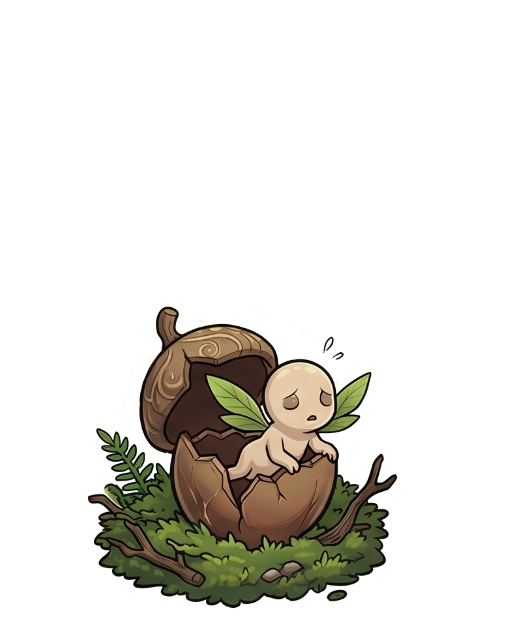
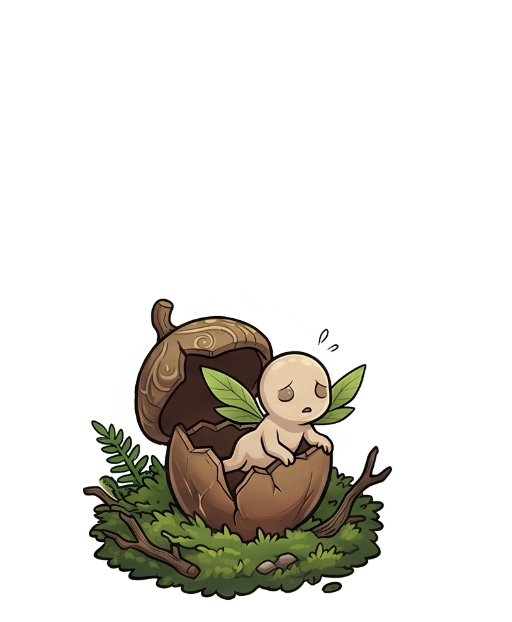
Replaced Potiondas monster selection dropdown with visual thumbnail toggle buttons

Changed region(s): [[0.1562, 0.4582, 0.7812, 0.9775]]

diff --git a/src/components/Editor/ContextualMenu.jsx b/src/components/Editor/ContextualMenu.jsx
@@ -728,14 +728,23 @@ const ContextualMenu = ({ element, onChange, onDelete, onDuplicate, onOpenLibrar
                         <>
                             <div className="menu-group">
                                 <label>Monster</label>
-                                <select 
-                                    value={element.config?.monsterType || 'plant'}
-                                    onChange={(e) => onChange('cartridge', { config: { ...element.config, monsterType: e.target.value } })}
-                                    style={{ fontSize: '0.8rem' }}
-                                >
-                                    <option value="plant">Plant</option>
-                                    <option value="forest">Forest</option>
-                                </select>
+                                <div style={{ display: 'flex', gap: '8px', flexWrap: 'wrap' }}>
+                                    {['plant', 'forest'].map(mType => (
+                                        <button
+                                            key={mType}
+                                            className={`btn-icon ${element.config?.monsterType === mType || (!element.config?.monsterType && mType === 'plant') ? 'active' : ''}`}
+                                            onClick={() => onChange('cartridge', { config: { ...element.config, monsterType: mType } })}
+                                            title={`Select ${mType} monster`}
+                                            style={{ width: '40px', height: '40px', padding: '4px', display: 'flex', alignItems: 'center', justifyContent: 'center', background: 'rgba(255,255,255,0.1)' }}
+                                        >
+                                            <img 
+                                                src={`/assets/characters/evolution monsters/monster_${mType}_09.png`} 
+                                                alt={mType} 
+                                                style={{ width: '100%', height: '100%', objectFit: 'contain' }} 
+                                            />
+                                        </button>
+                                    ))}
+                                </div>
                             </div>
                             <div className="menu-group">
                                 <button